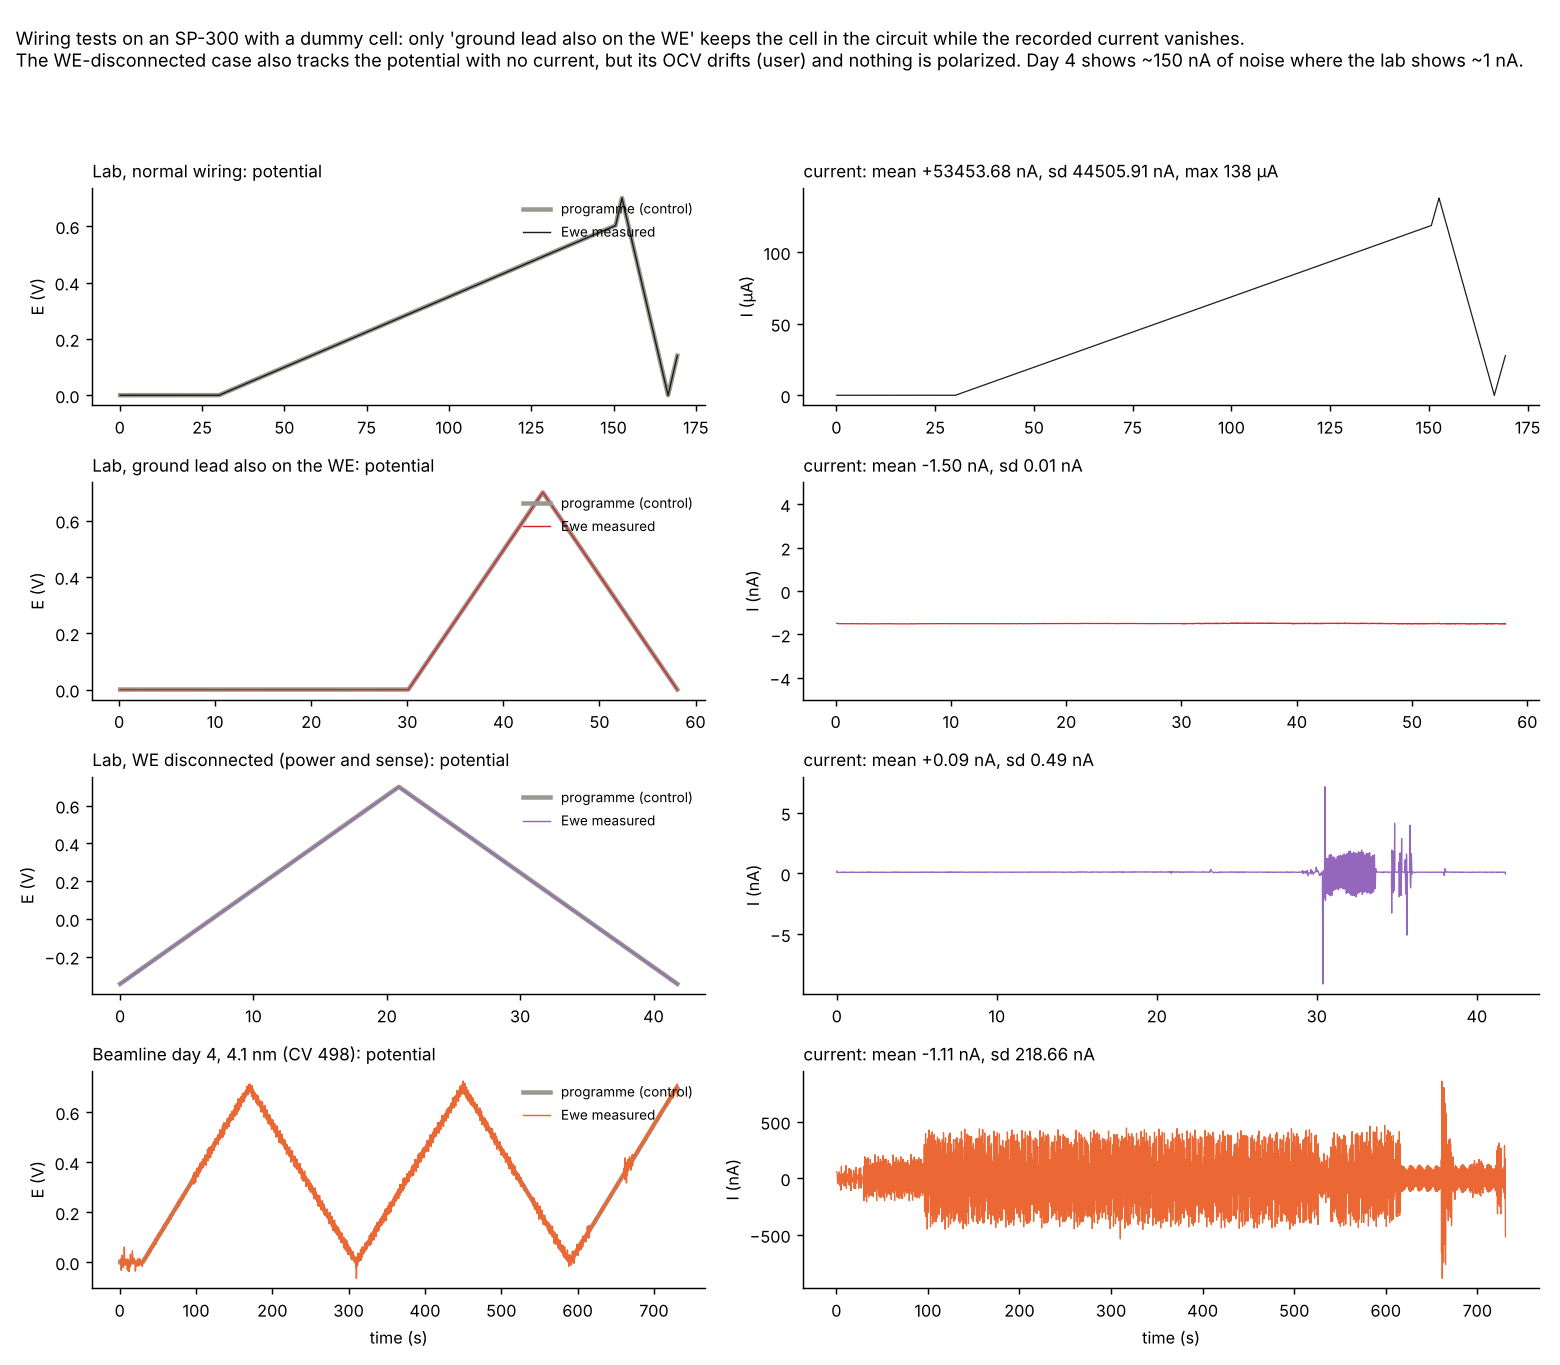
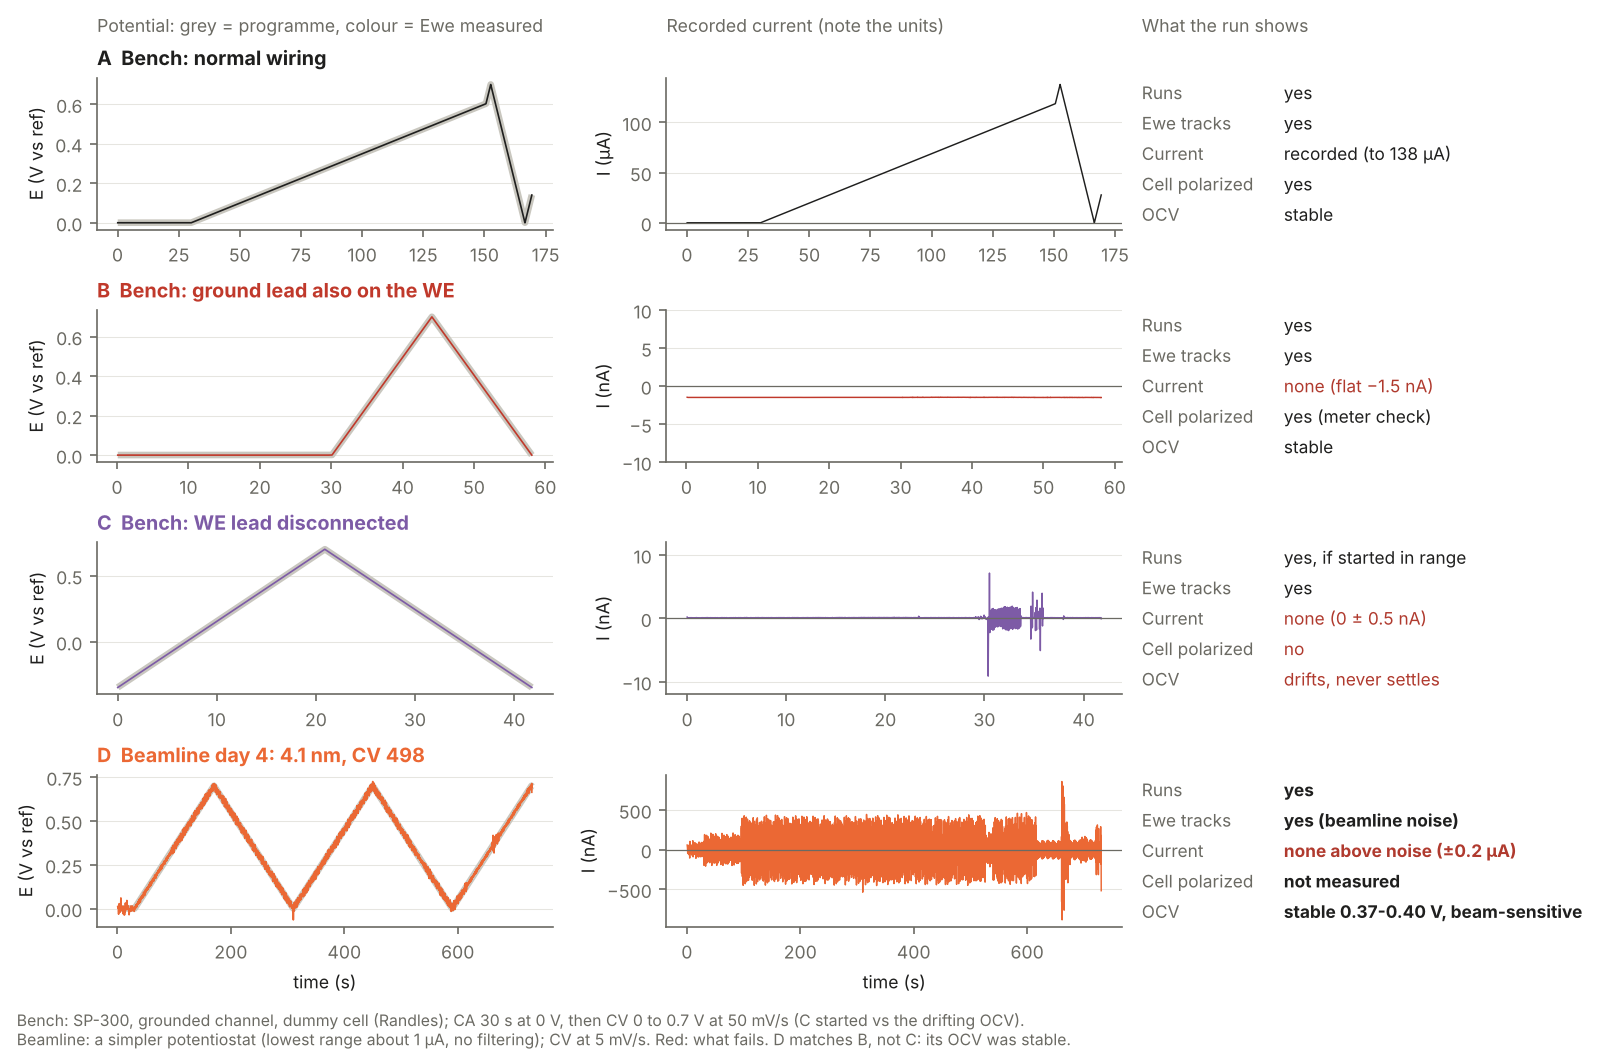
ec06 wiring-test figure: compact layout with a verdict column
One row per configuration: potential (programme vs Ewe), recorded current with its units, and what the run shows. No
text over the plots; the caption sits below.

Claude-Session: https://claude.ai/code/session_01N5djLZqA28CJrUapxRBco7

diff --git a/analysis/2026-11-06_stationary_cv/lab_wiring_tests.py b/analysis/2026-11-06_stationary_cv/lab_wiring_tests.py
@@ -47,31 +47,57 @@ for k, v in out.items():
     print(f"{k:24s} {v['label']:34s} {v['seconds']:6.1f} s  Ewe-ctrl rms {v['ewe_track_rms_mV']:6.2f} mV (max {v['ewe_track_max_mV']:6.1f})  "
           f"I mean {v['I_mean_uA']:+9.4f} sd {v['I_sd_uA']:8.4f} max|I| {v['I_max_abs_uA']:9.3f} uA  ranges {v['I_ranges']}")
 
-# figure: normal, ground on WE, WE disconnected, and day 4
-rows = [("all", "Lab, normal wiring", "#1f1f1e"), ("gnd_to_red", "Lab, ground lead also on the WE", "#d62728"),
-        ("no_WE", "Lab, WE disconnected (power and sense)", "#9467bd"), ("d4", "Beamline day 4, 4.1 nm (CV 498)", "#eb6834")]
-plt.rcParams.update({"font.size": 9, "axes.spines.top": False, "axes.spines.right": False})
-fig, axs = plt.subplots(4, 2, figsize=(12, 10.5), gridspec_kw=dict(width_ratios=[1, 1.2]))
-for i, (k, lab, col) in enumerate(rows):
-    r = d4 if k == "d4" else load(sorted(glob.glob(os.path.join(LAB, f"{k}_*.mpr"))))
-    t, c, E, I, R = r
+# figure: one row per configuration; potential | current | what it shows
+INK, MUTED, GRID = "#1f1f1e", "#6b6a63", "#e6e5e0"
+ROWS = [
+    ("all", "A  Bench: normal wiring", "#1f1f1e", "uA",
+     [("Runs", "yes"), ("Ewe tracks", "yes"), ("Current", "recorded (to 138 µA)"), ("Cell polarized", "yes"), ("OCV", "stable")]),
+    ("gnd_to_red", "B  Bench: ground lead also on the WE", "#c0392b", "nA",
+     [("Runs", "yes"), ("Ewe tracks", "yes"), ("Current", "none (flat −1.5 nA)"), ("Cell polarized", "yes (meter check)"),
+      ("OCV", "stable")]),
+    ("no_WE", "C  Bench: WE lead disconnected", "#7d5ba6", "nA",
+     [("Runs", "yes, if started in range"), ("Ewe tracks", "yes"), ("Current", "none (0 ± 0.5 nA)"), ("Cell polarized", "no"),
+      ("OCV", "drifts, never settles")]),
+    ("d4", "D  Beamline day 4: 4.1 nm, CV 498", "#eb6834", "nA",
+     [("Runs", "yes"), ("Ewe tracks", "yes (beamline noise)"), ("Current", "none above noise (±0.2 µA)"),
+      ("Cell polarized", "not measured"), ("OCV", "stable 0.37-0.40 V, beam-sensitive")]),
+]
+plt.rcParams.update({"font.size": 8.5, "axes.spines.top": False, "axes.spines.right": False, "axes.edgecolor": MUTED,
+                     "xtick.color": MUTED, "ytick.color": MUTED, "axes.labelcolor": INK, "axes.titlesize": 9.5})
+fig, axs = plt.subplots(4, 3, figsize=(10.6, 6.6), gridspec_kw=dict(width_ratios=[1, 1, 0.78]), layout="constrained")
+for i, (k, title, col, unit, verdict) in enumerate(ROWS):
+    t, c, E, I, R = d4 if k == "d4" else load(sorted(glob.glob(os.path.join(LAB, f"{k}_*.mpr"))))
     ax = axs[i, 0]
-    ax.plot(t, c, color="#9a998f", lw=2.5, label="programme (control)")
-    ax.plot(t, E, color=col, lw=0.8, label="Ewe measured")
-    ax.set_ylabel("E (V)"); ax.set_title(f"{lab}: potential", loc="left", fontsize=9.5)
-    ax.legend(loc="upper right", fontsize=7.5, frameon=False)
+    ax.plot(t, c, color="#c9c7bf", lw=3.2, solid_capstyle="butt")
+    ax.plot(t, E, color=col, lw=0.8)
+    ax.set_ylabel("E (V vs ref)")
+    ax.set_title(title, loc="left", fontweight="bold", color=col if k != "all" else INK)
+    ax.grid(axis="y", color=GRID, lw=0.5)
     ax = axs[i, 1]
-    ax.plot(t, I * (1 if k in ("all",) else 1e3), color=col, lw=0.7)
-    ax.set_ylabel("I (µA)" if k == "all" else "I (nA)")
-    s = out["beamline day 4 (CV 498)"] if k == "d4" else out[k]
-    ax.set_title(f"current: mean {s['I_mean_uA']*1e3:+.2f} nA, sd {s['I_sd_uA']*1e3:.2f} nA"
-                 + (f", max {s['I_max_abs_uA']:.0f} µA" if k == "all" else ""), loc="left", fontsize=9.5)
+    y = I if unit == "uA" else I * 1e3
+    ax.plot(t, y, color=col, lw=0.7)
+    ax.axhline(0, color=MUTED, lw=0.6)
+    ax.set_ylabel(f"I ({'µA' if unit == 'uA' else 'nA'})")
     if k == "gnd_to_red":
-        ax.set_ylim(-5, 5)
-for ax in axs[-1]:
-    ax.set_xlabel("time (s)")
-fig.suptitle("Wiring tests on an SP-300 with a dummy cell: only 'ground lead also on the WE' keeps the cell in the circuit while the recorded "
-             "current vanishes.\nThe WE-disconnected case also tracks the potential with no current, but its OCV drifts (user) and nothing "
-             "is polarized. Day 4 shows ~150 nA of noise where the lab shows ~1 nA.", fontsize=10, x=0.01, ha="left")
-fig.tight_layout(rect=(0, 0, 1, 0.94))
-fig.savefig(os.path.join(here, "ec_figures", "ec06_lab_wiring_tests.png"), dpi=130)
+        ax.set_ylim(-10, 10)
+    if k == "no_WE":
+        ax.set_ylim(-12, 12)
+    ax.grid(axis="y", color=GRID, lw=0.5)
+    ax = axs[i, 2]
+    ax.axis("off")
+    for j, (a, b) in enumerate(verdict):
+        yy = 0.9 - j * 0.2
+        ax.text(0.0, yy, a, transform=ax.transAxes, fontsize=8.3, color=MUTED, va="center")  # label column
+        bad = b == "no" or b.startswith("none") or b.startswith("drifts")
+        ax.text(0.40, yy, b, transform=ax.transAxes, fontsize=8.3, va="center", color="#b03a2e" if bad else INK,
+                fontweight="bold" if k == "d4" else "normal")
+for j in range(2):
+    axs[-1, j].set_xlabel("time (s)")
+axs[0, 0].text(0.0, 1.30, "Potential: grey = programme, colour = Ewe measured", transform=axs[0, 0].transAxes, fontsize=8.5,
+               color=MUTED)
+axs[0, 1].text(0.0, 1.30, "Recorded current (note the units)", transform=axs[0, 1].transAxes, fontsize=8.5, color=MUTED)
+axs[0, 2].text(0.0, 1.30, "What the run shows", transform=axs[0, 2].transAxes, fontsize=8.5, color=MUTED)
+fig.text(0.005, -0.012, "Bench: SP-300, grounded channel, dummy cell (Randles); CA 30 s at 0 V, then CV 0 to 0.7 V at 50 mV/s "
+         "(C started vs the drifting OCV).\nBeamline: a simpler potentiostat (lowest range about 1 µA, no filtering); CV at 5 mV/s. "
+         "Red: what fails. D matches B, not C: its OCV was stable.", fontsize=7.6, color=MUTED, ha="left", va="top")
+fig.savefig(os.path.join(here, "ec_figures", "ec06_lab_wiring_tests.png"), dpi=150, bbox_inches="tight")
